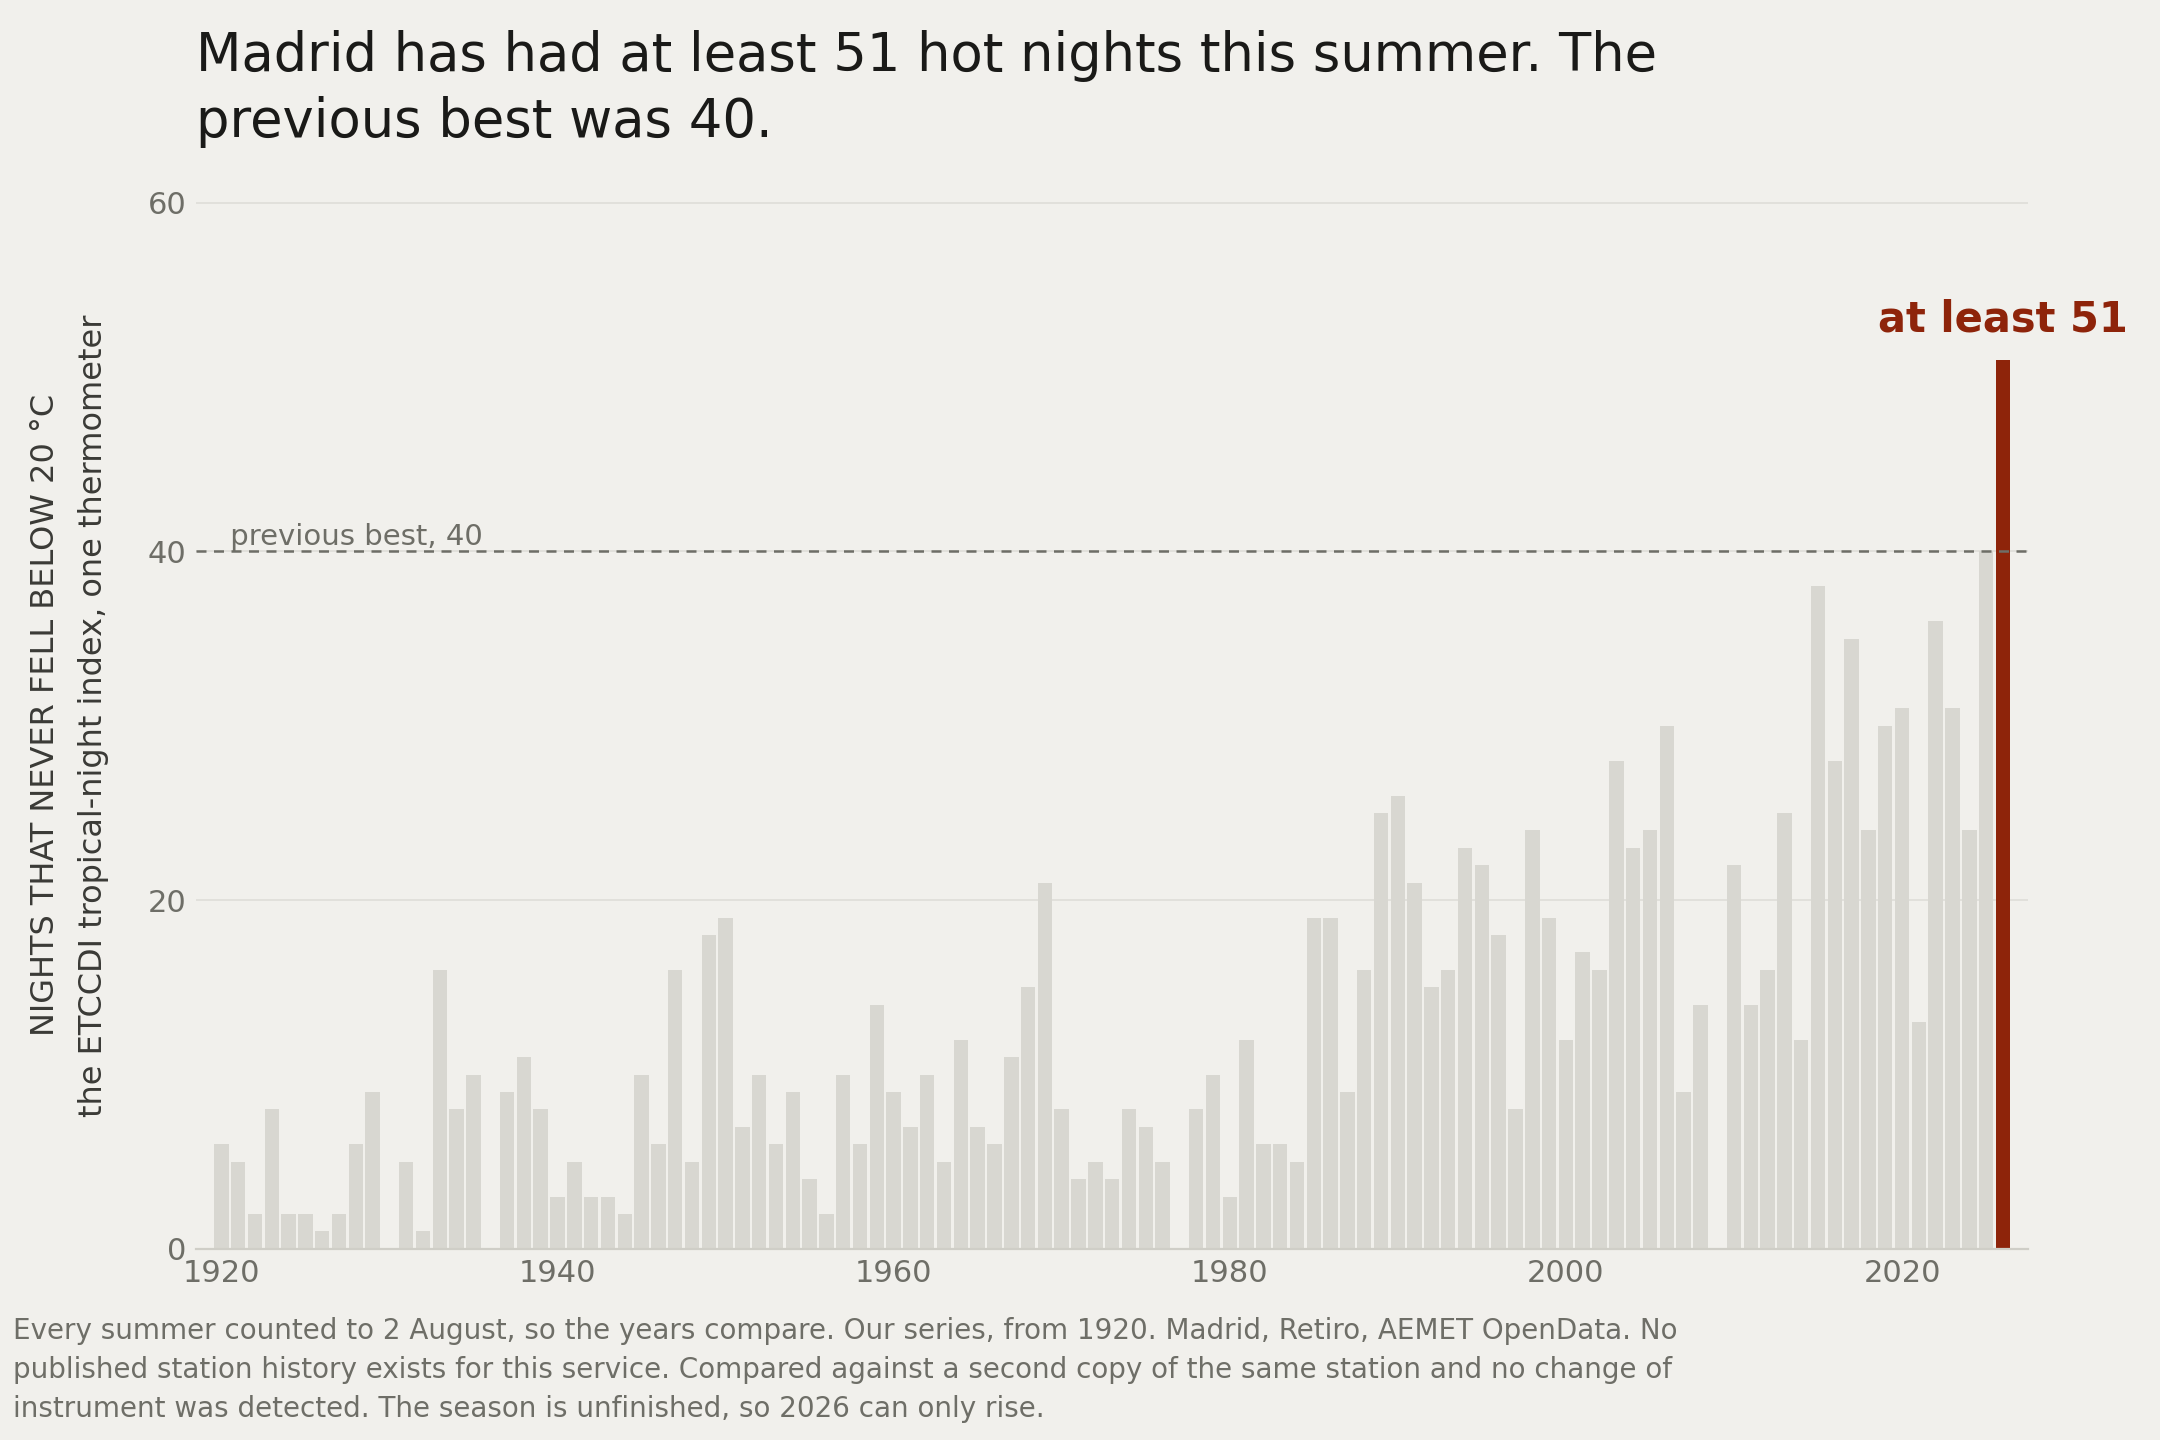
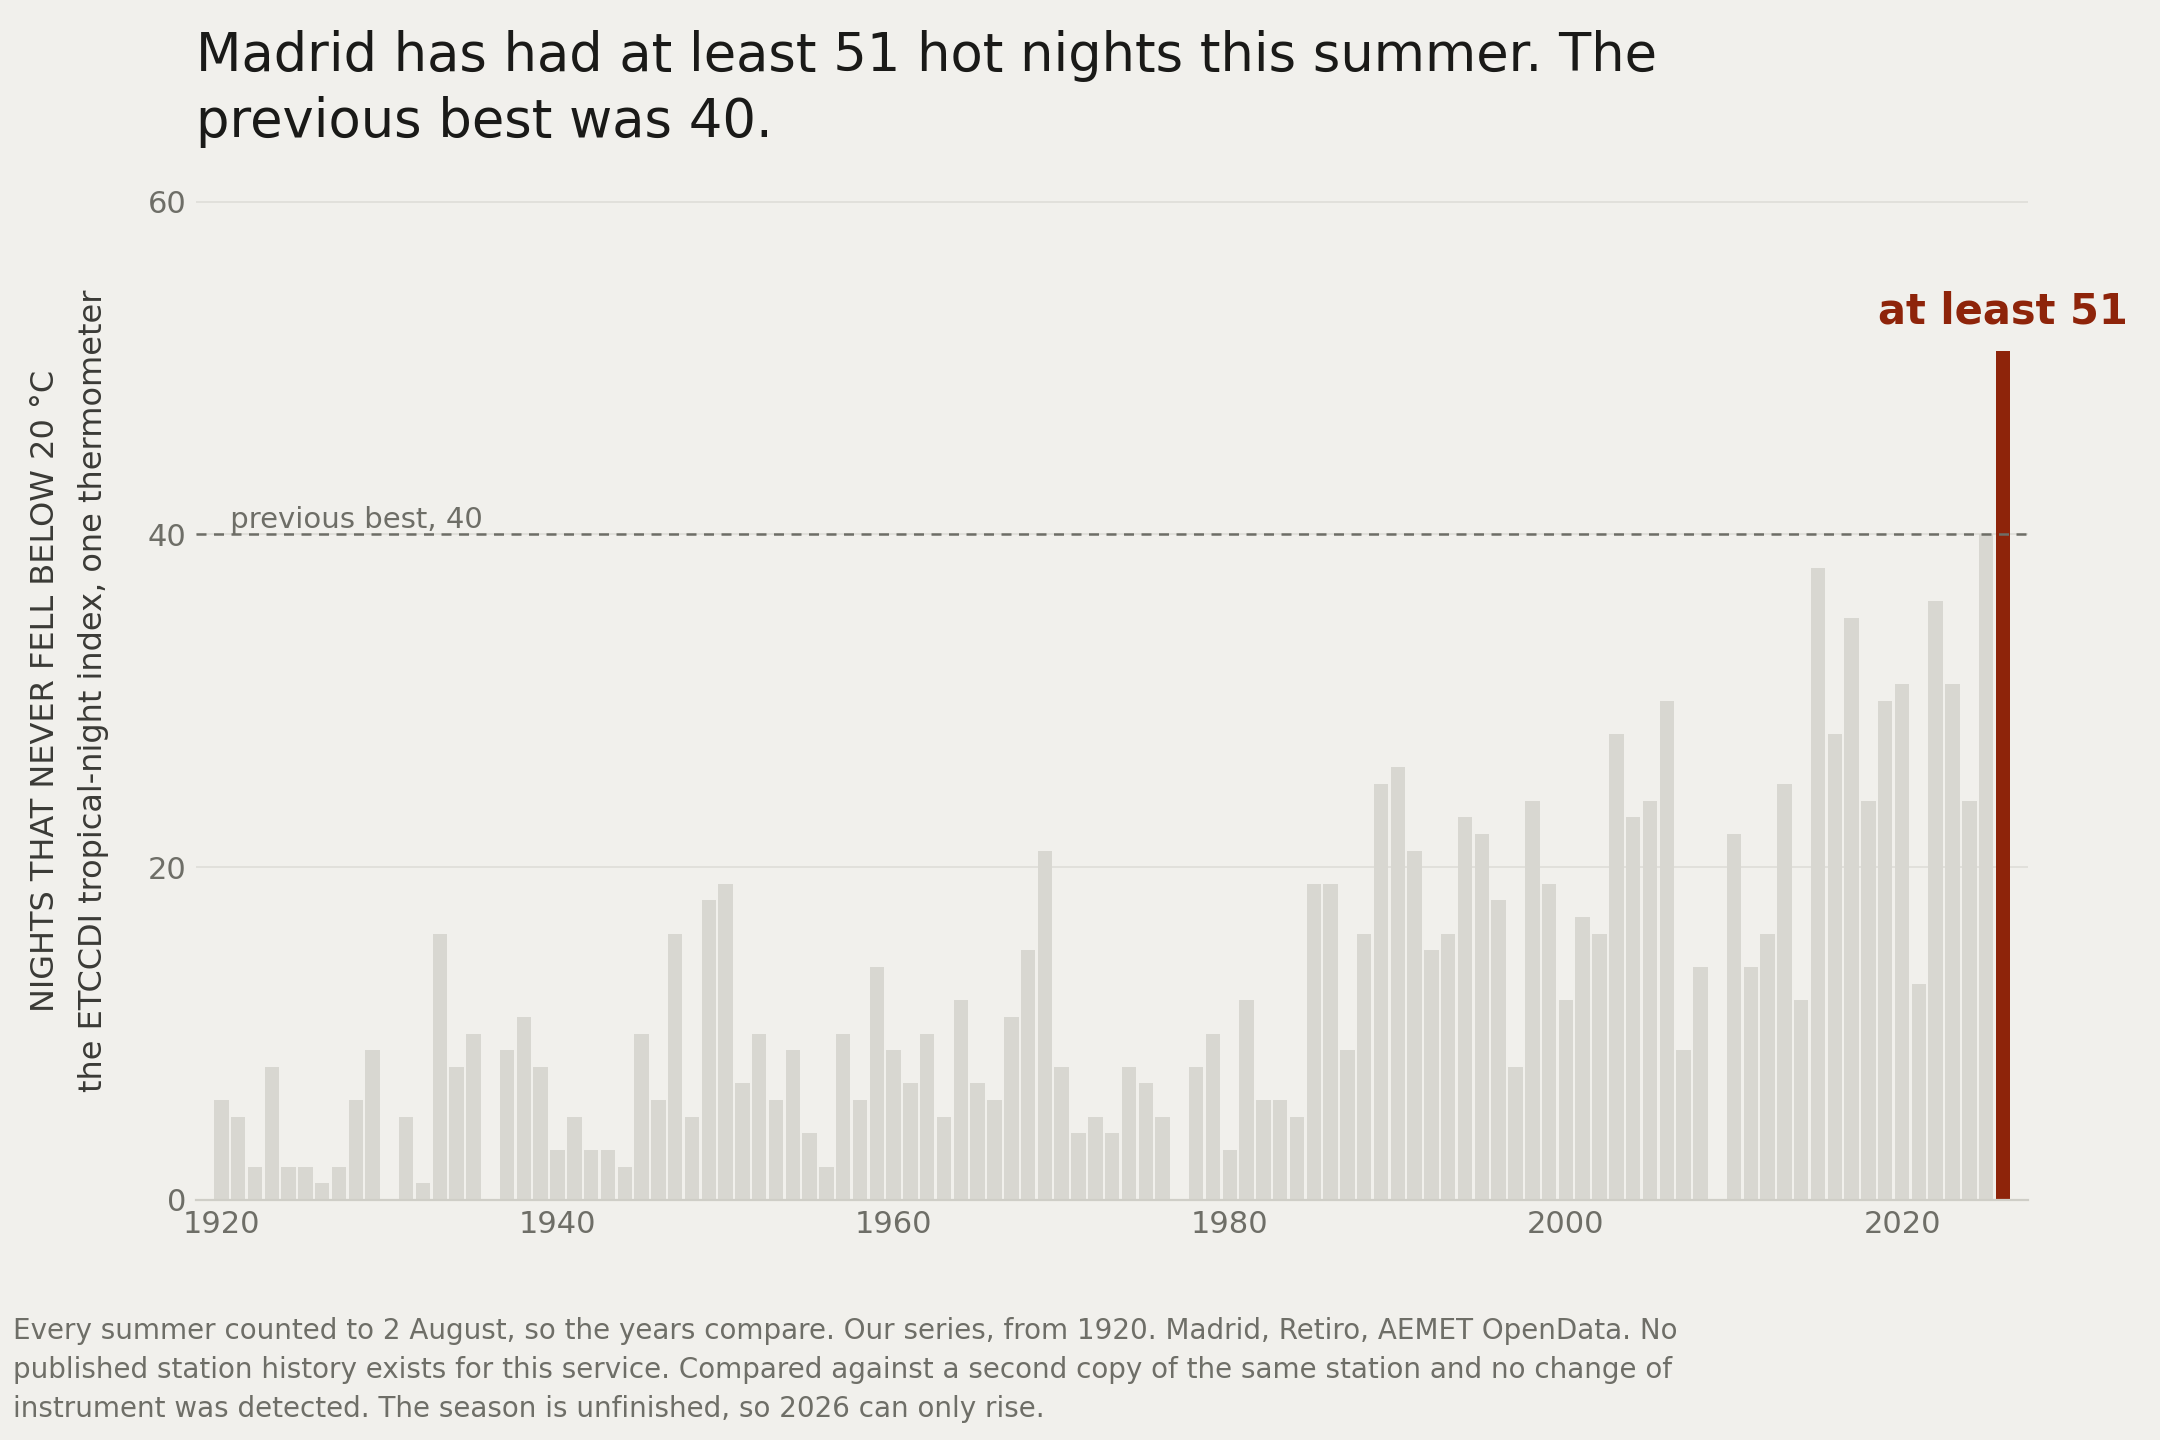
notes: a reference period lifts the night gate, and the zeros need protecting
Frankfurt nights is buildable after all, and working out why is the
useful part.

The gate forbids a night ratio, multiple or record on a city whose
1991-2020 baseline is near zero, because dividing by almost nothing
manufactures all three. A period total divides by nothing. "17 this
year, 26 in the whole of 1950 to 2000" is two counts side by side and
the reader does the comparison at a scale they can see. Editor reached
that framing independently, on readability grounds rather than this
rule, which is some evidence it is the honest shape.

So period mode is allowed and drops the previous-best line and the
record annotation, because those ARE the record claim and they are
drawn rather than written. Without a reference period the refusal
stands.

THE PART EDITOR'S SPEC COULD NOT HAVE KNOWN. Their framing rests on the
zeros: 38 of those 51 summers had none at all. Frankfurt has no
observations for 1945 to 1948. On a full series from 1937 a zero and a
missing year are the same empty column, so a reader counting blanks
gets 42, and the four extra are war years nobody measured. Observed
zeros now carry a visible tick and the gap is named on the chart.

All of editor's figures verified against the payload: 51 of 51 years
present, 26 total, 38 zeros, highest single year 7 in 1994, 2026 at 17.

The station-move sentence is editor's wording verbatim, including their
own correction: the 2014 move sits BETWEEN the baseline and this year,
[…]

diff --git a/design/make_note_chart.py b/design/make_note_chart.py
@@ -54,14 +54,27 @@ def _day(mmdd):
     return f"{int(d)} {MON[int(m) - 1]}"
 
 
-def series(city, metric):
+def series(city, metric, reference=None):
     """Values, the 2026 figure, and everything the image has to carry."""
     v = N["cities"][city]
 
     if metric == "nights":
         # See the module docstring. This is heat's rule, quoted from the
         # payload so the refusal cannot drift from what the data says.
-        if v.get("nights_metric_gated"):
+        #
+        # A REFERENCE PERIOD LIFTS THE GATE, and working out why is the
+        # useful part. The gate forbids a ratio, a multiple or a record,
+        # because dividing by a near-zero baseline manufactures all three.
+        # A period total divides by nothing: "17 this year, 26 in the whole
+        # of 1950 to 2000" is two counts side by side, and the reader does
+        # the comparison at a scale they can see. Editor arrived at that
+        # framing independently, for reasons of readability rather than
+        # this rule, which is some evidence it is the honest shape.
+        #
+        # What stays banned in period mode is the previous-best line and
+        # the record annotation, because those ARE the record claim and
+        # they are drawn, not written.
+        if v.get("nights_metric_gated") and not reference:
             raise SystemExit(
                 f"REFUSING: {city}'s tropical-night metric is gated.\n\n"
                 f"  {v['nights_metric_gated_note']}\n\n"
@@ -69,7 +82,8 @@ def series(city, metric):
                 f"{v['nights_2026']} against a previous best. "
                 f"{len([c for c, x in N['cities'].items() if x.get('nights_metric_gated')])} "
                 f"of {len(N['cities'])} cities are gated, all of them north of "
-                f"the Mediterranean. Pick an ungated city, or chart days.")
+                f"the Mediterranean. Pick an ungated city, chart days, or pass a\n"
+                f"reference period, which compares totals instead of dividing.")
         s, now = v["series_to_same_date"], v["nights_2026"]
         axis = "NIGHTS THAT NEVER FELL BELOW 20 °C"
         sub = "the ETCCDI tropical-night index, one thermometer"
@@ -84,8 +98,8 @@ def series(city, metric):
     return v, s, vals, now, axis, sub
 
 
-def draw(city, metric):
-    v, s, vals, now, axis, sub = series(city, metric)
+def draw(city, metric, reference=None):
+    v, s, vals, now, axis, sub = series(city, metric, reference)
     years = sorted(vals)
     cut = _day(s["cut_at"])
 
@@ -103,15 +117,49 @@ def draw(city, metric):
     ax.bar([2026], [now], width=0.86, color=NOW, linewidth=0)
 
     prev = max(vals.values())
-    ax.axhline(prev, color=INK_FAINT, lw=0.9, ls=(0, (4, 3)), zorder=3)
-    ax.text(years[0], prev, f" previous best, {prev}", va="bottom", ha="left",
-            fontsize=10.5, color=INK_FAINT)
+    ax.set_xlim(years[0] - 1.5, 2027.5)
+    ax.set_ylim(0, max(now, prev) * 1.20)
+    if reference:
+        a, b = reference
+        ref = {y: x for y, x in vals.items() if a <= y <= b}
+        missing = [y for y in range(a, b + 1) if y not in vals]
+        if missing:
+            raise SystemExit(
+                f"REFUSING: {city} has no observation in {missing} inside the "
+                f"{a}-{b} reference period, so a total over it is a total over "
+                f"an unknown number of summers.")
+        # Lighter than the bars, not the same grey. The first render
+        # shaded the band in almost exactly the bar colour and the
+        # columns inside it stopped reading, which on a chart whose
+        # subject is what happened inside that band is the one place
+        # the fill must not compete.
+        ax.axvspan(a - 0.5, b + 0.5, color="#EAE9E3", zorder=0)
+        ax.text((a + b) / 2, ax.get_ylim()[1], f"{a} to {b}", ha="center",
+                va="top", fontsize=10.5, color=INK_FAINT)
+
+        # A ZERO AND A MISSING YEAR ARE BOTH AN EMPTY COLUMN, and here that
+        # matters more than anywhere else on the site: the story editor is
+        # telling IS the zeros, "38 of those 51 summers had none at all".
+        # Frankfurt has no observations for 1945 to 1948. A reader counting
+        # blank columns across the full series gets 42, not 38, and the
+        # four extra are war years nobody measured. So observed zeros get a
+        # visible tick and the gap gets named.
+        zeros = [y for y, x in vals.items() if x == 0]
+        ax.plot(zeros, [0] * len(zeros), marker="|", ls="none", ms=7,
+                mew=1.4, color="#B9B8B1", zorder=2)
+        gap = [y for y in range(years[0], years[-1] + 1) if y not in vals]
+        if gap:
+            ax.annotate(f"no observations\n{gap[0]} to {gap[-1]}",
+                        ((gap[0] + gap[-1]) / 2, ax.get_ylim()[1] * 0.34),
+                        ha="center", va="bottom", fontsize=10, color=INK_FAINT)
+    else:
+        ax.axhline(prev, color=INK_FAINT, lw=0.9, ls=(0, (4, 3)), zorder=3)
+        ax.text(years[0], prev, f" previous best, {prev}", va="bottom",
+                ha="left", fontsize=10.5, color=INK_FAINT)
     ax.annotate(f"{floor}{now}".strip(), (2026, now), xytext=(0, 7),
                 textcoords="offset points", ha="center", va="bottom",
                 fontsize=15, color=NOW, weight="bold")
 
-    ax.set_xlim(years[0] - 1.5, 2027.5)
-    ax.set_ylim(0, max(now, prev) * 1.20)
     ax.yaxis.set_major_locator(MaxNLocator(4, integer=True))
     ax.tick_params(labelsize=11, colors=INK_FAINT, length=0)
     for side in ("top", "right", "left"):
@@ -140,9 +188,17 @@ def draw(city, metric):
     # so the rule is that no text on this image is trusted to fit.
 
     noun = "hot nights" if metric == "nights" else "hot days"
-    ax.set_title("\n".join(textwrap.wrap(
-        f"{city} has had {floor}{now} {noun} this summer. "
-        f"The previous best was {prev}.", 54)),
+    if reference:
+        a, b = reference
+        tot = sum(x for y, x in vals.items() if a <= y <= b)
+        nz = sum(1 for y, x in vals.items() if a <= y <= b and x == 0)
+        head = (f"{city} has had {floor}{now} {noun} this summer. "
+                f"In the whole of {a} to {b} it had {tot}, and {nz} of those "
+                f"{b - a + 1} summers had none at all.")
+    else:
+        head = (f"{city} has had {floor}{now} {noun} this summer. "
+                f"The previous best was {prev}.")
+    ax.set_title("\n".join(textwrap.wrap(head, 58)),
         fontsize=19, color=INK, loc="left", pad=16, weight="medium",
         linespacing=1.35)
 
@@ -155,7 +211,24 @@ def draw(city, metric):
             # case keeps it.
             f"{v['station'].title() if v['station'].isupper() else v['station']}, "
             f"{v['source']['who']}."]
-    if v.get("station_disclosure"):
+    if reference and v.get("station_relocations"):
+        # EDITOR'S WORDING, VERBATIM, and they corrected themselves to get
+        # it: they first told me the 2014 move stopped mattering because it
+        # falls outside the baseline. It falls BETWEEN the baseline and this
+        # year, so the two figures being compared are from different sites,
+        # which is more exposed than the version where the move sat inside
+        # the baseline. The payload's own one-liner does not say that,
+        # because the payload does not know which period a chart compares.
+        #
+        # This belongs in a copy file the way copy/heat_index.md does. There
+        # is no copy deck for Notes yet, so it sits here with editor's name
+        # on it rather than being quietly reworded.
+        foot.append(
+            f"This station moved {v['station_relocations'][0]['km']} km in "
+            f"{v['station_relocations'][0]['date'][:4]}, so this year's count "
+            f"and that baseline are not from the same site; stations nearby "
+            f"that did not move show a similar rise over the same period.")
+    elif v.get("station_disclosure"):
         # Shown because Kristjan ruled the state is shown per city rather
         # than hedged across the set. It is a disclosure, not a warning:
         # the rise here sits inside the range set by stations that never
@@ -167,11 +240,17 @@ def draw(city, metric):
     # the right edge mid-word, which on a chart that travels alone deletes
     # the attribution rather than making it look cramped.
 
-    fig.text(0.006, 0.012, "\n".join(textwrap.wrap(" ".join(foot), 118)),
-             fontsize=10, color=INK_FAINT, ha="left", va="bottom",
-             linespacing=1.5)
+    # THE MARGIN FOLLOWS THE TEXT, it is not a number I looked at once. A
+    # fixed bottom rect was right for a two-line footer and wrong the moment
+    # editor's fuller station-move sentence made it four, at which point the
+    # footer sat on top of the year labels. Every disclosure this chart
+    # carries is conditional, so the footer's height is not knowable in
+    # advance and must not be guessed.
+    lines = textwrap.wrap(" ".join(foot), 118)
+    fig.text(0.006, 0.012, "\n".join(lines), fontsize=10, color=INK_FAINT,
+             ha="left", va="bottom", linespacing=1.5)
 
-    fig.tight_layout(rect=(0, 0.085, 1, 1))
+    fig.tight_layout(rect=(0, 0.035 + 0.028 * len(lines), 1, 1))
     OUT.mkdir(parents=True, exist_ok=True)
     p = OUT / f"{city.lower()}-{metric}.png"
     fig.savefig(p, facecolor=PAPER)
